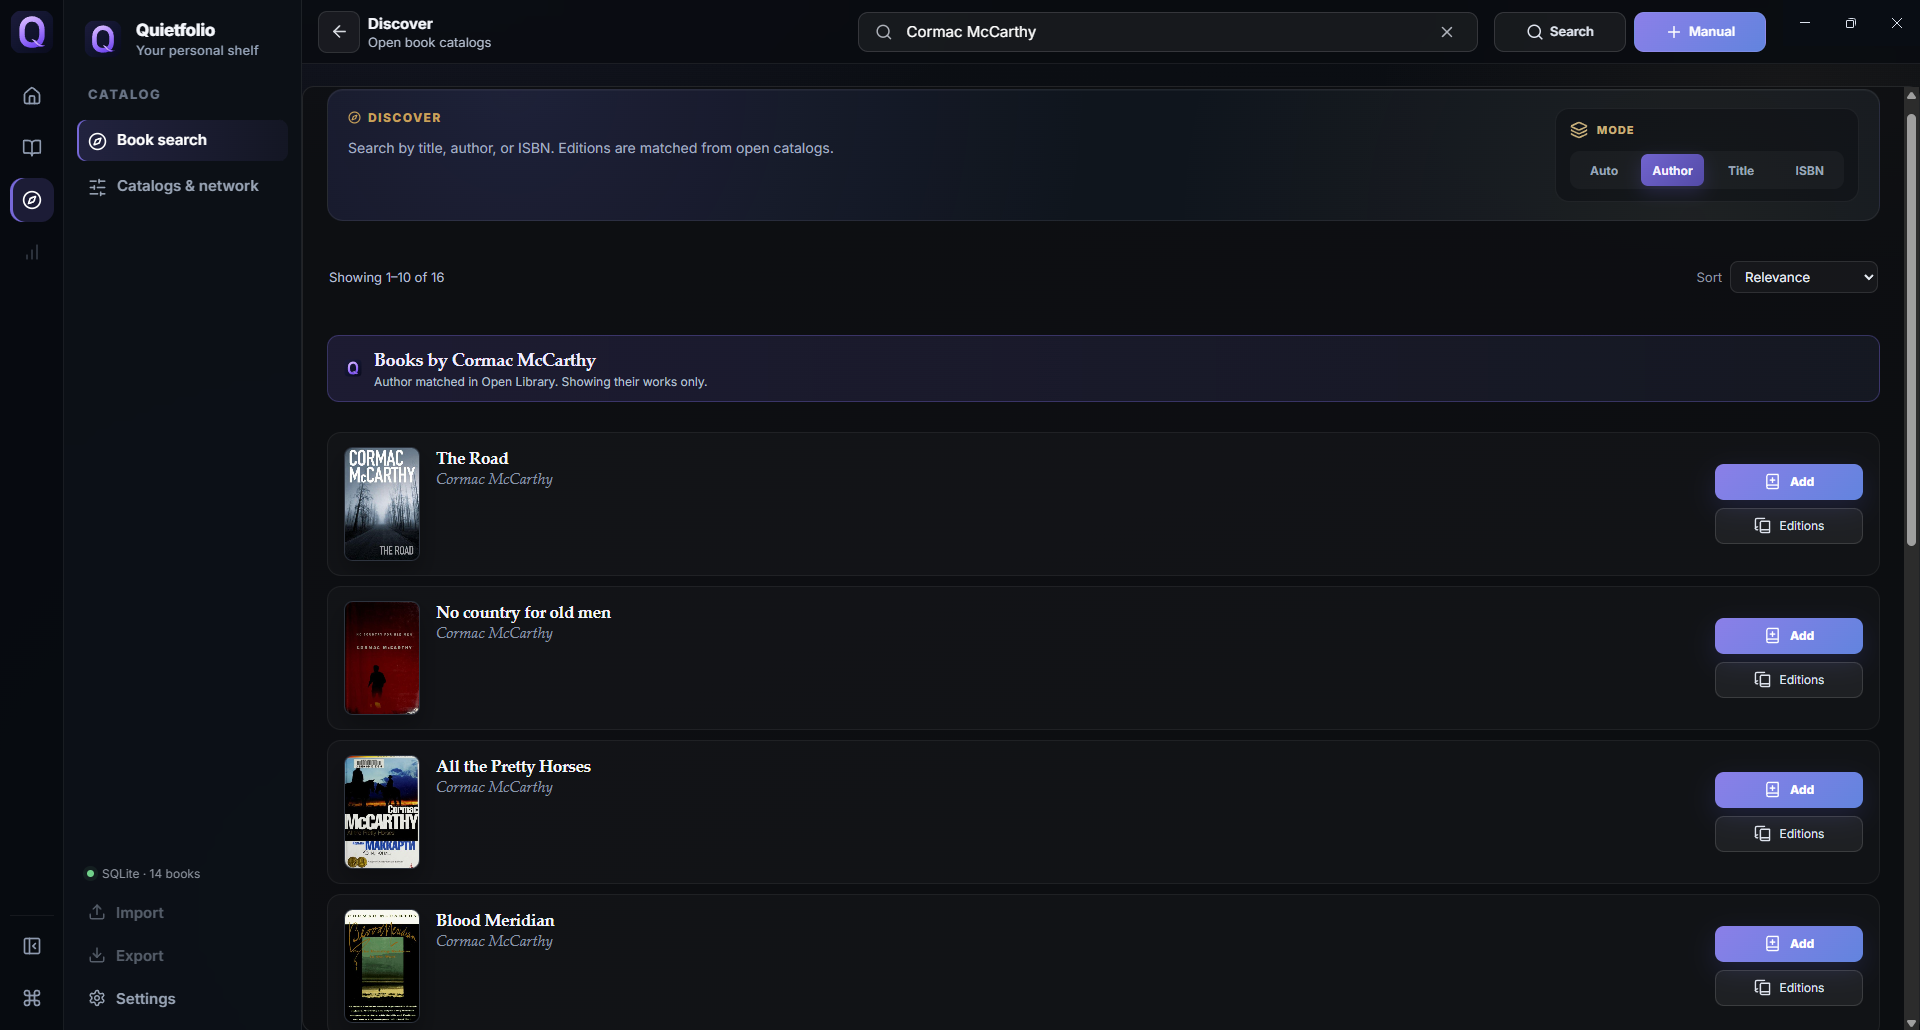
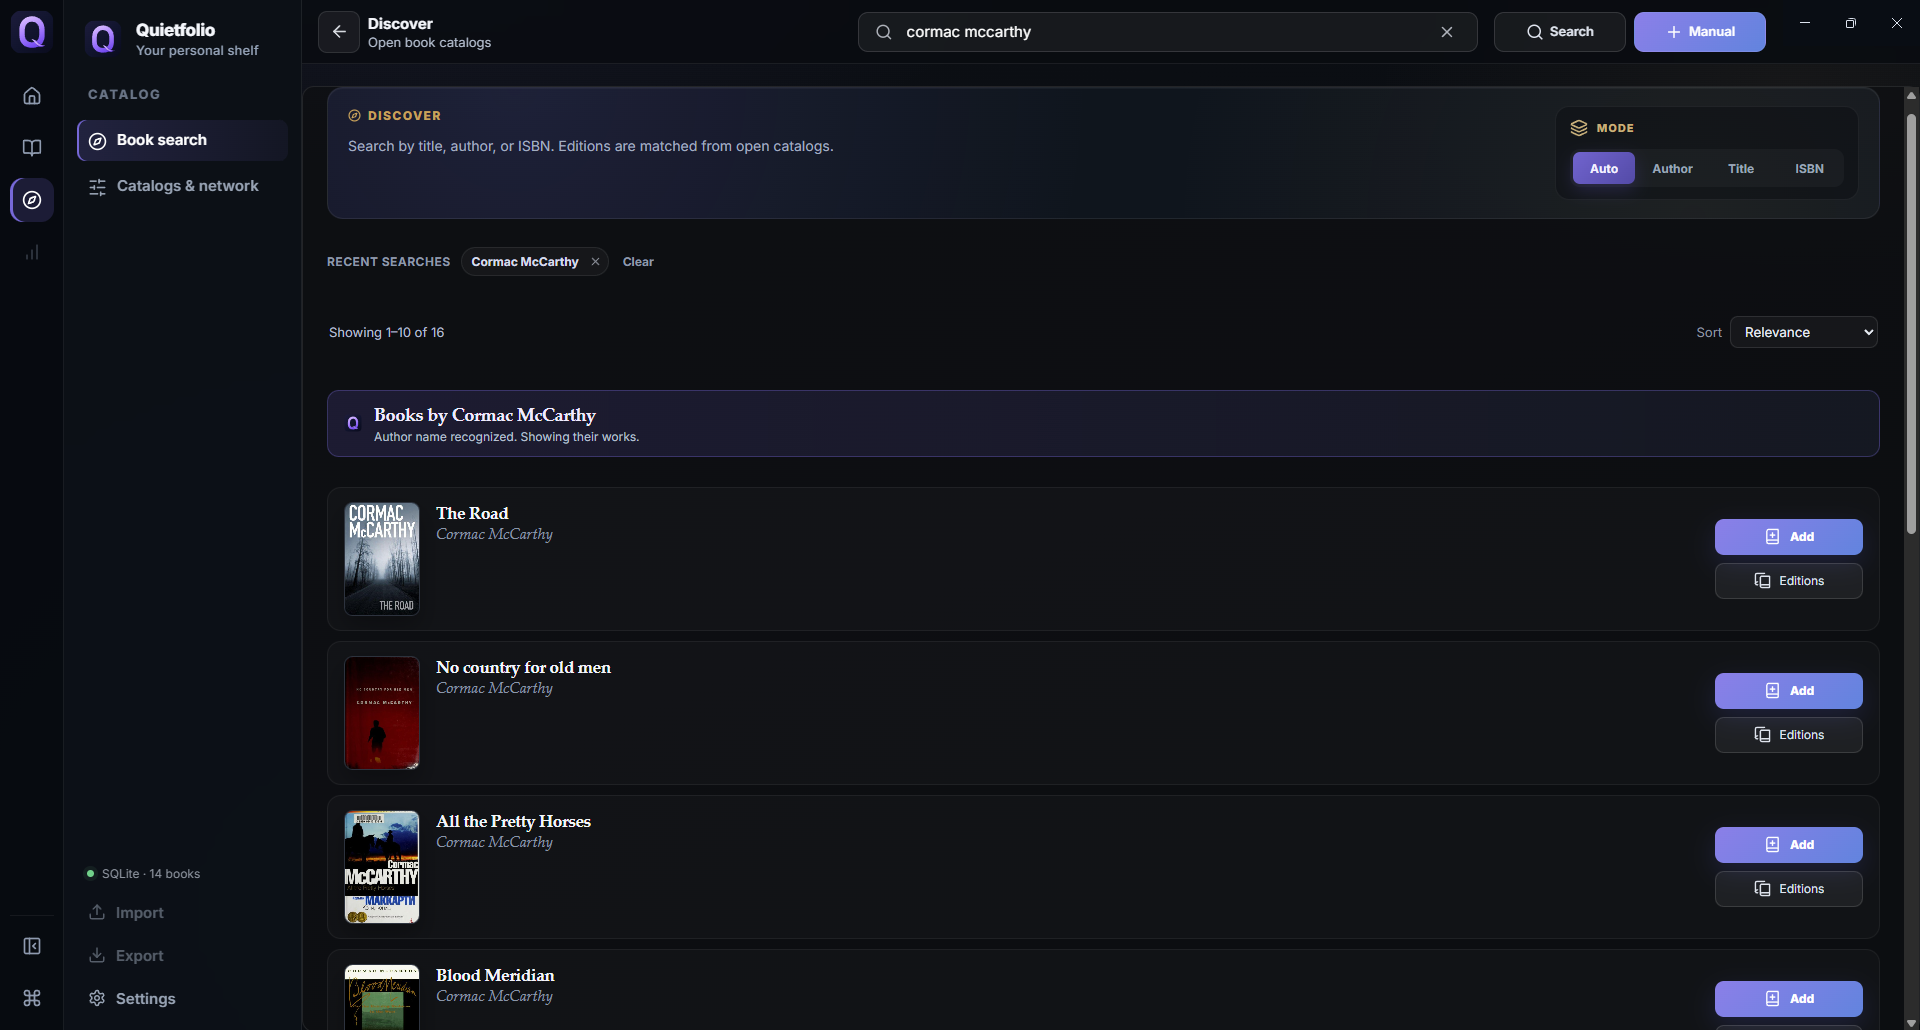
Refresh README and screenshots

diff --git a/src/ui/App.tsx b/src/ui/App.tsx
@@ -3,6 +3,7 @@ import {
   AlertTriangle,
   ArrowLeft,
   ArrowRight,
+  BookmarkPlus,
   BookCopy,
   BookMarked,
   BookOpen,
@@ -44,7 +45,7 @@ import {
   HardDrive,
   X
 } from "lucide-react";
-import { BrandIcon, brandIcon } from "../shared/brand";
+import { BrandIcon, brandIcon, brandMark } from "../shared/brand";
 import type {
   AppSettings,
   AppSettingsUpdate,
@@ -178,7 +179,7 @@ function historyQueryFromResponse(response: OnlineSearchResponse): string {
 type OnlineResultSort = "relevance" | "year_desc" | "year_asc" | "popularity" | "title";
 
 const readingStatusOptions = [
-  { value: "want" as const, Icon: Sparkles },
+  { value: "want" as const, Icon: BookmarkPlus },
   { value: "reading" as const, Icon: BookMarked },
   { value: "read" as const, Icon: CircleCheck },
   { value: "paused" as const, Icon: Clock3 },
@@ -1473,7 +1474,7 @@ function AppShell({
 
   useEffect(() => {
     const handleKeyDown = (event: KeyboardEvent) => {
-      if ((event.ctrlKey || event.metaKey) && event.key.toLocaleLowerCase("en") === "k") {
+      if ((event.ctrlKey || event.metaKey) && (event.code === "KeyK" || event.key.toLocaleLowerCase("en") === "k")) {
         event.preventDefault();
         setCommandOpen((current) => !current);
         return;
@@ -2232,13 +2233,13 @@ function AppShell({
           {mode === "home" && <>
             <button className="nav-item active"><House size={19} /><span className="nav-item-label">{m.nav.today}</span></button>
             <button className="nav-item" onClick={openLibraryRecent}><Clock3 size={19} /><span className="nav-item-label">{m.nav.recentlyAdded}</span></button>
-            <button className="nav-item" onClick={() => enterOnlineMode()}><Sparkles size={19} /><span className="nav-item-label">{m.nav.findNewBook}</span></button>
+            <button className="nav-item" onClick={() => enterOnlineMode()}><Compass size={19} /><span className="nav-item-label">{m.nav.findNewBook}</span></button>
           </>}
           {mode === "library" && <>
             <button className={libraryFilter === "all" ? "nav-item active" : "nav-item"} onClick={() => { setLibrarySort("title"); setLibraryFilter("all"); }}><LibraryBig size={19} /><span className="nav-item-label">{m.nav.allBooks}</span><span className="nav-item-count">{stats.total}</span></button>
             <button className={libraryFilter === "favorites" ? "nav-item active nav-favorites" : "nav-item nav-favorites"} onClick={openLibraryFavorites}><Star size={19} /><span className="nav-item-label">{m.nav.favorites}</span><span className="nav-item-count">{stats.favorites}</span></button>
             <button className={libraryFilter === "reading" ? "nav-item active nav-reading" : "nav-item nav-reading"} onClick={() => { setLibrarySort("title"); setLibraryFilter("reading"); }}><BookMarked size={19} /><span className="nav-item-label">{m.status.reading}</span><span className="nav-item-count">{stats.reading}</span></button>
-            <button className={libraryFilter === "want" ? "nav-item active nav-want" : "nav-item nav-want"} onClick={() => { setLibrarySort("title"); setLibraryFilter("want"); }}><Sparkles size={19} /><span className="nav-item-label">{m.status.want}</span><span className="nav-item-count">{stats.want}</span></button>
+            <button className={libraryFilter === "want" ? "nav-item active nav-want" : "nav-item nav-want"} onClick={() => { setLibrarySort("title"); setLibraryFilter("want"); }}><BookmarkPlus size={19} /><span className="nav-item-label">{m.status.want}</span><span className="nav-item-count">{stats.want}</span></button>
             <button className={libraryFilter === "read" ? "nav-item active nav-read" : "nav-item nav-read"} onClick={() => { setLibrarySort("title"); setLibraryFilter("read"); }}><CircleCheck size={19} /><span className="nav-item-label">{m.status.read}</span><span className="nav-item-count">{stats.read}</span></button>
             <button className={libraryFilter === "paused" ? "nav-item active nav-paused" : "nav-item nav-paused"} onClick={() => { setLibrarySort("title"); setLibraryFilter("paused"); }}><Clock3 size={19} /><span className="nav-item-label">{m.status.paused}</span><span className="nav-item-count">{stats.paused}</span></button>
             <button className={libraryFilter === "abandoned" ? "nav-item active nav-abandoned" : "nav-item nav-abandoned"} onClick={() => { setLibrarySort("title"); setLibraryFilter("abandoned"); }}><CircleX size={19} /><span className="nav-item-label">{m.status.abandoned}</span><span className="nav-item-count">{stats.abandoned}</span></button>
@@ -2492,7 +2493,7 @@ function AppShell({
               </div>
             </div>
           )}
-          {showOnlineIdle && <div className="online-start compact"><img className="online-start-mark subtle" src={brandIcon} width={54} height={54} alt="" draggable={false} /><h2>{m.online.idleTitle}</h2><p>{m.online.idleHint}</p></div>}
+          {showOnlineIdle && <div className="online-start compact"><img className="online-start-mark subtle" src={brandMark} width={54} height={54} alt="" draggable={false} /><h2>{m.online.idleTitle}</h2><p>{m.online.idleHint}</p></div>}
           {showOnlineSkeleton && <>
             <div className="resolution-strip loading"><LoaderCircle className="spin-icon" size={16} /><span>{m.online.resolving}</span></div>
             <OnlineResultsSkeleton />
@@ -2550,7 +2551,7 @@ function AppShell({
                 ))}
               </div>
             )}
-            {!onlineResponse?.results.length ? <div className="online-start"><img className="online-start-mark" src={brandIcon} width={64} height={64} alt="" draggable={false} /><h2>{m.online.noResults}</h2><p>{m.online.noResultsHint}</p></div>
+            {!onlineResponse?.results.length ? <div className="online-start"><img className="online-start-mark" src={brandMark} width={64} height={64} alt="" draggable={false} /><h2>{m.online.noResults}</h2><p>{m.online.noResultsHint}</p></div>
             : <div className="work-results">{visibleOnlineResults.map((result, index) => {
               const quickAdd = shouldOfferQuickAdd(result, onlineResponse.resolution.resolvedMode, settings.autoSelectHighConfidence);
               const isFeatured = index === 0 && quickAdd;

diff --git a/src/shared/brand.tsx b/src/shared/brand.tsx
@@ -1,6 +1,7 @@
 import brandIcon from "../../assets/branding/quietfolio-logo-small.svg?url";
+import brandMark from "../../assets/branding/quietfolio-logo-mark.svg?url";
 
-export { brandIcon };
+export { brandIcon, brandMark };
 
 export function BrandIcon({
   size = 16,

diff --git a/README.md b/README.md
@@ -1,58 +1,80 @@
 <p align="center">
-  <img src="assets/branding/quietfolio-logo-mark-512.png" width="76" alt="Quietfolio logo">
+  <img src="assets/branding/quietfolio-logo-mark-512.png" width="96" alt="Quietfolio logo">
 </p>
 
 <h1 align="center">Quietfolio</h1>
 
 <p align="center">
-  A calm desktop catalog for the books on your shelf.
+  A local-first desktop app for managing a personal book library
 </p>
 
 <p align="center">
-  <a href="https://github.com/DamianEhrenburg/quietfolio/actions/workflows/check.yml"><img src="https://img.shields.io/github/actions/workflow/status/DamianEhrenburg/quietfolio/check.yml?branch=main&style=flat-square&label=check" alt="check status"></a>
-  <a href="https://github.com/DamianEhrenburg/quietfolio/tags"><img src="https://img.shields.io/github/v/tag/DamianEhrenburg/quietfolio?style=flat-square&label=version" alt="version"></a>
-  <a href="LICENSE"><img src="https://img.shields.io/badge/license-MIT-blue?style=flat-square" alt="MIT license"></a>
-  <img src="https://img.shields.io/badge/Electron-41-47848F?style=flat-square&logo=electron&logoColor=white" alt="Electron">
-  <img src="https://img.shields.io/badge/React-19-61DAFB?style=flat-square&logo=react&logoColor=black" alt="React">
-  <img src="https://img.shields.io/badge/TypeScript-5.7-3178C6?style=flat-square&logo=typescript&logoColor=white" alt="TypeScript">
-  <img src="https://img.shields.io/badge/SQLite-local-003B57?style=flat-square&logo=sqlite&logoColor=white" alt="SQLite">
+  <a href="https://github.com/DamianEhrenburg/quietfolio/actions/workflows/check.yml">
+    <img src="https://img.shields.io/github/actions/workflow/status/DamianEhrenburg/quietfolio/check.yml?branch=main&style=flat-square&label=check" alt="Check status">
+  </a>
+  <a href="https://github.com/DamianEhrenburg/quietfolio/tags">
+    <img src="https://img.shields.io/github/v/tag/DamianEhrenburg/quietfolio?style=flat-square&label=version" alt="Latest version">
+  </a>
+  <a href="LICENSE">
+    <img src="https://img.shields.io/badge/license-MIT-blue?style=flat-square" alt="MIT license">
+  </a>
+  <img src="https://img.shields.io/badge/Electron-41-47848F?style=flat-square&logo=electron&logoColor=white" alt="Electron 41">
+  <img src="https://img.shields.io/badge/React-19-61DAFB?style=flat-square&logo=react&logoColor=black" alt="React 19">
+  <img src="https://img.shields.io/badge/TypeScript-5.7-3178C6?style=flat-square&logo=typescript&logoColor=white" alt="TypeScript 5.7">
+  <img src="https://img.shields.io/badge/SQLite-local-003B57?style=flat-square&logo=sqlite&logoColor=white" alt="Local SQLite storage">
 </p>
 
 <p align="center">
   <img src="docs/screenshots/home.png" width="1100" alt="Quietfolio home screen">
 </p>
 
-<p align="center"><sub>Home: continue reading, recent books, quick stats</sub></p>
-
 <p align="center">
-  <img src="docs/screenshots/library.png" width="1100" alt="Quietfolio library">
+  <sub>Home screen with the current book, recently added titles and library statistics</sub>
 </p>
 
-<p align="center"><sub>Library: cover grid, filters, book details</sub></p>
-
 <p align="center">
-  <img src="docs/screenshots/discover.png" width="1100" alt="Quietfolio catalog search">
+  <img src="docs/screenshots/library.png" width="1100" alt="Quietfolio library screen">
 </p>
 
-<p align="center"><sub>Discover: FantLab, Wikidata, Open Library, Google Books, Gutendex, Hardcover, local INPX hints</sub></p>
+<p align="center">
+  <sub>Library screen with a cover grid, reading filters and book details</sub>
+</p>
 
-## What It Does
+<p align="center">
+  <img src="docs/screenshots/discover.png" width="1100" alt="Quietfolio catalog search screen">
+</p>
 
-Quietfolio keeps a personal home library on your computer: reading status, favorites, ratings, review notes, covers, editions, and online catalog search. It uses local SQLite storage and does not require an account.
+<p align="center">
+  <sub>Catalog search with edition information and book covers</sub>
+</p>
+
+## About
+
+Quietfolio is a local-first desktop application for managing a personal book collection.
+
+It keeps books, editions, covers, reading statuses, favorites, ratings and notes in one place. Library data is stored locally in SQLite, and no account or hosted backend is required.
 
 ## Features
 
-- Personal library with reading statuses, favorites, ratings, notes, and metadata.
-- Cover cache with local `quietfolio-cover://` URLs and graceful fallbacks.
-- Catalog search across FantLab, Wikidata, Open Library, Google Books, Gutendex, optional Hardcover, and optional INPX metadata.
-- Russian and English UI with a first-launch language picker.
-- Local-first desktop app: no cloud account, no hosted backend.
+* Personal book library with covers and edition information
+* Reading statuses, favorites, ratings and notes
+* Cover grid with quick filters and a compact details panel
+* Online catalog search across FantLab, Wikidata, Open Library, Google Books and Gutendex
+* Support for additional optional catalog sources
+* Local cover cache using the `quietfolio-cover://` protocol
+* Russian and English interface
+* Language selection on first launch
+* Local SQLite storage
+* No account or hosted backend
 
-Import/export is not implemented in `0.5.0`.
+## Run From Source
 
-## Install
+### Requirements
 
-Requirements: Node.js 20+, npm 10+, Windows/macOS/Linux.
+* Node.js 20 or newer
+* npm 10 or newer
+
+### Development Mode
 
 ```bash
 git clone https://github.com/DamianEhrenburg/quietfolio.git
@@ -61,43 +83,97 @@ npm install
 npm run dev
 ```
 
-Production build:
+### Production Build
 
 ```bash
 npm run build
 npm start
 ```
 
-Google Books is optional. Add an API key in **Settings** if you want keyed requests.
+Google Books integration is optional. An API key can be added in **Settings** to use authenticated requests.
 
-## Development
+## Development Checks
 
 ```bash
 npm run check
 ```
 
-The check script runs ESLint, TypeScript, a production build, asset verification, and search hint verification.
+The check command runs:
 
-## Privacy
+* ESLint
+* TypeScript validation
+* Production build
+* Asset verification
+* Search hint verification
 
-Library data is stored in the Electron `userData` directory as local SQLite files. Optional API keys are saved through Electron `safeStorage` when encryption is available.
+## Privacy and Storage
 
-## Roadmap
+Library data is stored locally as SQLite files in the Electron `userData` directory.
 
-Import/export, EPUB/PDF reader, CBZ support, and packaged installers for Windows/macOS.
+Optional API keys are stored through Electron `safeStorage` when encryption is available on the operating system.
+
+Quietfolio does not require registration and does not use a hosted backend for the personal library.
+
+## Current Limitations
+
+The following features are not implemented in version `0.5.0`:
+
+* Library import and export
+* EPUB and PDF reading
+* CBZ support
+* Packaged installers
+
+Quietfolio is under active development. Features, interfaces and internal architecture may change between releases.
+
+## Русский
 
 <details>
-<summary>Русский</summary>
+<summary>Описание на русском языке</summary>
 
-Quietfolio — спокойный каталог домашней библиотеки для компьютера: статусы чтения, избранное, оценки, заметки, обложки, издания и поиск по онлайн-каталогам. Данные хранятся локально в SQLite, аккаунт не нужен.
+Quietfolio — локальное настольное приложение для ведения домашней библиотеки.
+
+Приложение позволяет хранить книги, издания, обложки, статусы чтения, избранное, оценки и заметки. Данные библиотеки сохраняются локально в SQLite. Регистрация и подключение к отдельному серверу не требуются.
+
+### Возможности
+
+* каталог домашней библиотеки;
+* статусы чтения, избранное, оценки и заметки;
+* сетка обложек, фильтры и панель информации о книге;
+* поиск по FantLab, Wikidata, Open Library, Google Books и Gutendex;
+* локальное хранение обложек;
+* русский и английский интерфейс;
+* выбор языка при первом запуске;
+* локальная база данных SQLite.
+
+### Запуск из исходного кода
+
+Для запуска требуются Node.js 20 или новее и npm 10 или новее.
 
 ```bash
+git clone https://github.com/DamianEhrenburg/quietfolio.git
+cd quietfolio
 npm install
 npm run dev
 ```
 
+Для сборки и запуска производственной версии:
+
+```bash
+npm run build
+npm start
+```
+
+Ключ Google Books API не является обязательным. При необходимости его можно добавить в настройках приложения.
+
 </details>
 
+## License
+
+Quietfolio is distributed under the [MIT License](LICENSE).
+
 <p align="center">
-  <sub>Damian Ehrenburg · <a href="https://github.com/DamianEhrenburg">GitHub</a> · <a href="https://damianehrenburg.neocities.org">site</a></sub>
+  <sub>
+    Damian Ehrenburg ·
+    <a href="https://github.com/DamianEhrenburg">GitHub</a>
+  </sub>
 </p>